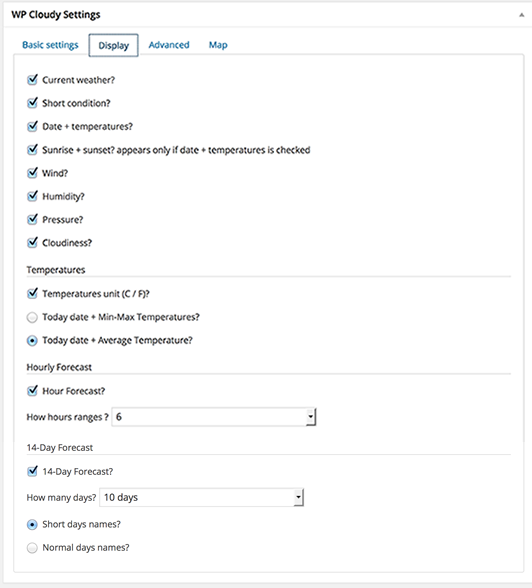
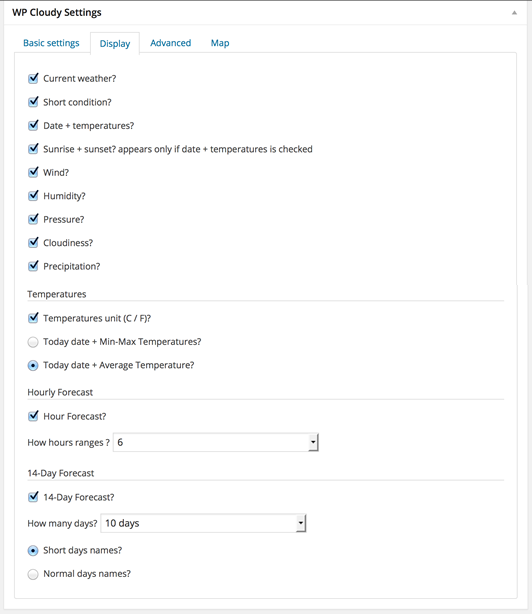
v2.8.2
git-svn-id: https://plugins.svn.wordpress.org/wp-cloudy/trunk@943668 b8457f37-d9ea-0310-8a92-e5e31aec5664

diff --git a/css/wpcloudy.min.css b/css/wpcloudy.min.css
@@ -1,1 +1,1 @@
-@font-face{font-family:Climacons-Font;src:url(climacons-webfont.eot);src:url(climacons-webfont.eot?#iefix) format('embedded-opentype'),url(climacons-webfont.svg#Climacons-Font) format('svg'),url(climacons-webfont.woff) format('woff'),url(climacons-webfont.ttf) format('truetype');font-weight:400;font-style:normal}#wpc-weather{font-family:helvetica neue,segoe ui,arial;font-size:14px;margin:10px 0;padding:10px 20px;width:100%;line-height:24px;display:inline-block;-webkit-box-sizing:border-box;-moz-box-sizing:border-box;box-sizing:border-box}#wpc-weather>div,#wpc-weather>div div,#wpc-weather>div div div{-webkit-box-sizing:border-box;-moz-box-sizing:border-box;box-sizing:border-box}#wpc-weather .wpc-highlight{display:block;font-weight:700}#wpc-weather .hours .temperature .wpc-highlight,#wpc-weather .temp_max .wpc-highlight,#wpc-weather .today .time_temperature_ave .wpc-highlight,#wpc-weather .today .time_temperature_max .wpc-highlight{display:inline-block}#wpc-weather.small .now .location_name{font-size:14px}#wpc-weather.medium .now .location_name{font-size:24px}#wpc-weather.large .now .location_name{font-size:34px}#wpc-weather.small .now .climacon:before{font-size:60px;line-height:80px;margin-bottom:20px}#wpc-weather.medium .now .climacon:before{font-size:100px;line-height:100px;margin-bottom:20px}#wpc-weather.large .now .climacon:before{font-size:200px}#wpc-weather .now .time_symbol{text-align:center}#wpc-weather.small .now .time_symbol svg{width:60px;height:60px;margin-bottom:20px}#wpc-weather.medium .now .time_symbol svg{width:100px;height:100px;margin-bottom:20px}#wpc-weather.large .now .time_symbol svg{width:200px;height:200px;margin-bottom:20px}#wpc-weather.small .now .time_temperature{font-size:14px}#wpc-weather.medium .now .time_temperature{font-size:24px}#wpc-weather.large .now .time_temperature{font-size:34px;margin:0}#wpc-weather .short_condition{display:inline-block;font-size:16px;margin:5px 0;text-align:center;width:100%}#wpc-weather .infos{display:inline-block;width:100%}#wpc-weather .infos .cloudiness,#wpc-weather .infos .humidity,#wpc-weather .infos .pressure,#wpc-weather .infos .wind{display:inline-block;float:left;margin:10px 0;text-align:center;width:25%}#wpc-weather .today .day{float:left;text-align:left;min-width:88px;width:20%}#wpc-weather .today .time_temperature_max{float:right;text-align:right;width:50px}#wpc-weather .today .time_temperature_min{float:right;margin-right:10px;text-align:right;width:50px}#wpc-weather .today .time_temperature_ave{float:right;text-align:right;width:50px}#wpc-weather .today .sun_hours{min-width:200px;width:30%;float:left;text-align:center}#wpc-weather .today .sun_hours .sunrise:before,#wpc-weather .today .sun_hours .sunset:before{font-size:30px;font-family:Climacons-Font;vertical-align:middle;padding-right:5%}#wpc-weather .today .sun_hours .sunrise:before{content:"\e02a"}#wpc-weather .today .sun_hours .sunset:before{content:"\e029"}#wpc-weather .forecast,#wpc-weather .today{display:inline-block;width:100%}#wpc-weather .hours{border-bottom-style:solid;border-top-style:solid;border-width:1px;display:inline-block;margin-bottom:10px;text-align:center;width:100%}#wpc-weather .hours .climacon{font-size:30px;font-family:Climacons-Font;speak:none;font-style:normal;font-weight:400;line-height:1;display:block;text-align:center;-webkit-font-smoothing:antialiased}#wpc-weather .hours .fifth,#wpc-weather .hours .first,#wpc-weather .hours .fourth,#wpc-weather .hours .second,#wpc-weather .hours .sixth,#wpc-weather .hours .third{display:inline-block;margin:0 6% 0 0;width:auto}#wpc-weather .hours .first{margin:0 6%}#wpc-weather .forecast .eighth,#wpc-weather .forecast .eleventh,#wpc-weather .forecast .fifth,#wpc-weather .forecast .first,#wpc-weather .forecast .fourth,#wpc-weather .forecast .ninth,#wpc-weather .forecast .second,#wpc-weather .forecast .seventh,#wpc-weather .forecast .sixth,#wpc-weather .forecast .tenth,#wpc-weather .forecast .third,#wpc-weather .forecast .thirteenth,#wpc-weather .forecast .twelfth{display:inline-block;width:100%}#wpc-weather .forecast .day{float:left;text-transform:capitalize;width:100px}#wpc-weather .forecast .symbol{float:left;width:100px}#wpc-weather .forecast .temp_min{float:right;margin-right:10px;text-align:right;width:50px}#wpc-weather .forecast .temp_max{float:right;text-align:right;width:50px}#wpc-weather .forecast .climacon{font-size:30px;font-family:Climacons-Font;speak:none;font-style:normal;font-weight:400;line-height:1;display:block;text-align:center;-webkit-font-smoothing:antialiased}#wpc-weather .location_name{font-size:44px;text-align:center}#wpc-weather .hours .symbol span,#wpc-weather .time_symbol span{position:absolute;text-indent:-9999px}#wpc-weather .time_temperature{display:block;font-size:44px;margin-top:-20px;text-align:center}#wpc-weather .now .climacon:before{font-family:Climacons-Font;speak:none;font-style:normal;font-weight:400;line-height:1;font-size:200px;display:block;text-align:center;-webkit-font-smoothing:antialiased}#wpc-weather #wpc-map-container{width:100%}#wpc-weather #wpc-map{height:300px;position:relative;width:100%;z-index:3}#wpc-weather #wpc-map svg{width:auto;height:auto}#wpc-weather .climacon.w800:before{content:"\e028"}#wpc-weather .climacon.w801:before{content:"\e001"}#wpc-weather .climacon.w802:before{content:"\e000"}#wpc-weather .climacon.w803:before,#wpc-weather .climacon.w804:before{content:"\e000";color:#B5B5B5}#wpc-weather .climacon.w500:before,#wpc-weather .climacon.w501:before{content:"\e004"}#wpc-weather .climacon.w502:before{content:"\e003"}#wpc-weather .climacon.w503:before{content:"\e007"}#wpc-weather .climacon.w504:before{content:"\e006"}#wpc-weather .climacon.w511:before{content:"\e00a"}#wpc-weather .climacon.w520:before{content:"\e009"}#wpc-weather .climacon.w521:before{content:"\e00d"}#wpc-weather .climacon.w300:before,#wpc-weather .climacon.w301:before,#wpc-weather .climacon.w302:before,#wpc-weather .climacon.w310:before,#wpc-weather .climacon.w311:before,#wpc-weather .climacon.w312:before,#wpc-weather .climacon.w321:before,#wpc-weather .climacon.w522:before{content:"\e00c"}#wpc-weather .climacon.w600:before{content:"\e016"}#wpc-weather .climacon.w601:before{content:"\e015"}#wpc-weather .climacon.w602:before{content:"\e019"}#wpc-weather .climacon.w611:before{content:"\e015"}#wpc-weather .climacon.w621:before{content:"\e018"}#wpc-weather .climacon.w701:before{content:"\e01f"}#wpc-weather .climacon.w711:before,#wpc-weather .climacon.w721:before{content:"\e01e"}#wpc-weather .climacon.w731:before{content:"\e01c"}#wpc-weather .climacon.w741:before{content:"\e01b"}#wpc-weather .climacon.w900:before{content:"\e037"}#wpc-weather .climacon.w901:before,#wpc-weather .climacon.w902:before{content:"\e022"}#wpc-weather .climacon.w903:before{content:"\e038"}#wpc-weather .climacon.w904:before{content:"\e03d"}#wpc-weather .climacon.w905:before{content:"\e021"}#wpc-weather .climacon.w906:before{content:"\e012"}#wpc-weather .climacon.w200:before{content:"\e025"}
+@font-face{font-family:Climacons-Font;src:url(climacons-webfont.eot);src:url(climacons-webfont.eot?#iefix) format('embedded-opentype'),url(climacons-webfont.svg#Climacons-Font) format('svg'),url(climacons-webfont.woff) format('woff'),url(climacons-webfont.ttf) format('truetype');font-weight:400;font-style:normal}#wpc-weather{font-family:helvetica neue,segoe ui,arial;font-size:14px;margin:10px 0;padding:10px 20px;width:100%;line-height:24px;display:inline-block;-webkit-box-sizing:border-box;-moz-box-sizing:border-box;box-sizing:border-box}#wpc-weather>div,#wpc-weather>div div,#wpc-weather>div div div{-webkit-box-sizing:border-box;-moz-box-sizing:border-box;box-sizing:border-box}#wpc-weather .wpc-highlight{display:block;font-weight:700}#wpc-weather .hours .temperature .wpc-highlight,#wpc-weather .temp_max .wpc-highlight,#wpc-weather .today .time_temperature_ave .wpc-highlight,#wpc-weather .today .time_temperature_max .wpc-highlight{display:inline-block}#wpc-weather.small .now .location_name{font-size:14px}#wpc-weather.medium .now .location_name{font-size:24px}#wpc-weather.large .now .location_name{font-size:34px}#wpc-weather.small .now .climacon:before{font-size:60px;line-height:80px;margin-bottom:20px}#wpc-weather.medium .now .climacon:before{font-size:100px;line-height:100px;margin-bottom:20px}#wpc-weather.large .now .climacon:before{font-size:200px}#wpc-weather .now .time_symbol{text-align:center}#wpc-weather.small .now .time_symbol svg{width:60px;height:60px;margin-bottom:20px}#wpc-weather.medium .now .time_symbol svg{width:100px;height:100px;margin-bottom:20px}#wpc-weather.large .now .time_symbol svg{width:200px;height:200px;margin-bottom:20px}#wpc-weather.small .now .time_temperature{font-size:14px}#wpc-weather.medium .now .time_temperature{font-size:24px}#wpc-weather.large .now .time_temperature{font-size:34px;margin:0}#wpc-weather .short_condition{display:inline-block;font-size:16px;margin:5px 0;text-align:center;width:100%}#wpc-weather .infos{display:inline-block;width:100%}#wpc-weather .infos .cloudiness,#wpc-weather .infos .humidity,#wpc-weather .infos .precipitation,#wpc-weather .infos .pressure,#wpc-weather .infos .wind{display:inline-block;float:left;margin:10px 0;text-align:center;width:20%}#wpc-weather .today .day{float:left;text-align:left;min-width:88px;width:20%}#wpc-weather .today .time_temperature_max{float:right;text-align:right;width:50px}#wpc-weather .today .time_temperature_min{float:right;margin-right:10px;text-align:right;width:50px}#wpc-weather .today .time_temperature_ave{float:right;text-align:right;width:50px}#wpc-weather .today .sun_hours{min-width:200px;width:30%;float:left;text-align:center}#wpc-weather .today .sun_hours .sunrise:before,#wpc-weather .today .sun_hours .sunset:before{font-size:30px;font-family:Climacons-Font;vertical-align:middle;padding-right:5%}#wpc-weather .today .sun_hours .sunrise:before{content:"\e02a"}#wpc-weather .today .sun_hours .sunset:before{content:"\e029"}#wpc-weather .forecast,#wpc-weather .today{display:inline-block;width:100%}#wpc-weather .hours{border-bottom-style:solid;border-top-style:solid;border-width:1px;display:inline-block;margin-bottom:10px;text-align:center;width:100%}#wpc-weather .hours .climacon{font-size:30px;font-family:Climacons-Font;speak:none;font-style:normal;font-weight:400;line-height:1;display:block;text-align:center;-webkit-font-smoothing:antialiased}#wpc-weather .hours .fifth,#wpc-weather .hours .first,#wpc-weather .hours .fourth,#wpc-weather .hours .second,#wpc-weather .hours .sixth,#wpc-weather .hours .third{display:inline-block;margin:0 6% 0 0;width:auto}#wpc-weather .hours .first{margin:0 6%}#wpc-weather .forecast .eighth,#wpc-weather .forecast .eleventh,#wpc-weather .forecast .fifth,#wpc-weather .forecast .first,#wpc-weather .forecast .fourth,#wpc-weather .forecast .ninth,#wpc-weather .forecast .second,#wpc-weather .forecast .seventh,#wpc-weather .forecast .sixth,#wpc-weather .forecast .tenth,#wpc-weather .forecast .third,#wpc-weather .forecast .thirteenth,#wpc-weather .forecast .twelfth{display:inline-block;width:100%}#wpc-weather .forecast .day{float:left;text-transform:capitalize;width:100px}#wpc-weather .forecast .symbol{float:left;width:100px}#wpc-weather .forecast .temp_min{float:right;margin-right:10px;text-align:right;width:50px}#wpc-weather .forecast .temp_max{float:right;text-align:right;width:50px}#wpc-weather .forecast .climacon{font-size:30px;font-family:Climacons-Font;speak:none;font-style:normal;font-weight:400;line-height:1;display:block;text-align:center;-webkit-font-smoothing:antialiased}#wpc-weather .location_name{font-size:44px;text-align:center}#wpc-weather .hours .symbol span,#wpc-weather .time_symbol span{position:absolute;text-indent:-9999px}#wpc-weather .time_temperature{display:block;font-size:44px;margin-top:-20px;text-align:center}#wpc-weather .now .climacon:before{font-family:Climacons-Font;speak:none;font-style:normal;font-weight:400;line-height:1;font-size:200px;display:block;text-align:center;-webkit-font-smoothing:antialiased}#wpc-weather #wpc-map-container{width:100%}#wpc-weather #wpc-map{height:300px;position:relative;width:100%;z-index:3}#wpc-weather #wpc-map svg{width:auto;height:auto}#wpc-weather .climacon.w800:before{content:"\e028"}#wpc-weather .climacon.w801:before{content:"\e001"}#wpc-weather .climacon.w802:before{content:"\e000"}#wpc-weather .climacon.w803:before,#wpc-weather .climacon.w804:before{content:"\e000";color:#B5B5B5}#wpc-weather .climacon.w500:before,#wpc-weather .climacon.w501:before{content:"\e004"}#wpc-weather .climacon.w502:before{content:"\e003"}#wpc-weather .climacon.w503:before{content:"\e007"}#wpc-weather .climacon.w504:before{content:"\e006"}#wpc-weather .climacon.w511:before{content:"\e00a"}#wpc-weather .climacon.w520:before{content:"\e009"}#wpc-weather .climacon.w521:before{content:"\e00d"}#wpc-weather .climacon.w300:before,#wpc-weather .climacon.w301:before,#wpc-weather .climacon.w302:before,#wpc-weather .climacon.w310:before,#wpc-weather .climacon.w311:before,#wpc-weather .climacon.w312:before,#wpc-weather .climacon.w321:before,#wpc-weather .climacon.w522:before{content:"\e00c"}#wpc-weather .climacon.w600:before{content:"\e016"}#wpc-weather .climacon.w601:before{content:"\e015"}#wpc-weather .climacon.w602:before{content:"\e019"}#wpc-weather .climacon.w611:before{content:"\e015"}#wpc-weather .climacon.w621:before{content:"\e018"}#wpc-weather .climacon.w701:before{content:"\e01f"}#wpc-weather .climacon.w711:before,#wpc-weather .climacon.w721:before{content:"\e01e"}#wpc-weather .climacon.w731:before{content:"\e01c"}#wpc-weather .climacon.w741:before{content:"\e01b"}#wpc-weather .climacon.w900:before{content:"\e037"}#wpc-weather .climacon.w901:before,#wpc-weather .climacon.w902:before{content:"\e022"}#wpc-weather .climacon.w903:before{content:"\e038"}#wpc-weather .climacon.w904:before{content:"\e03d"}#wpc-weather .climacon.w905:before{content:"\e021"}#wpc-weather .climacon.w906:before{content:"\e012"}#wpc-weather .climacon.w200:before{content:"\e025"}

diff --git a/css/wpcloudy.css b/css/wpcloudy.css
@@ -96,12 +96,12 @@
     display: inline-block;
     width: 100%;
 }
-#wpc-weather .infos .wind, #wpc-weather .infos .humidity, #wpc-weather .infos .pressure, #wpc-weather .infos .cloudiness {
+#wpc-weather .infos .wind, #wpc-weather .infos .humidity, #wpc-weather .infos .pressure, #wpc-weather .infos .cloudiness, #wpc-weather .infos .precipitation {
     display: inline-block;
     float: left;
     margin: 10px 0;
     text-align: center;
-    width: 25%;
+    width: 20%;
 }
 #wpc-weather .today .day {
 	float: left;

diff --git a/wpcloudy.php b/wpcloudy.php
@@ -3,7 +3,7 @@
 Plugin Name: WP Cloudy
 Plugin URI: http://wpcloudy.com/
 Description: WP Cloudy is a powerful weather plugin for WordPress, based on Open Weather Map API, using Custom Post Types and shortcodes, bundled with a ton of features.
-Version: 2.8.1.2
+Version: 2.8.2
 Author: Benjamin DENIS
 Author URI: http://wpcloudy.com/
 License: GPLv2
@@ -268,6 +268,7 @@ function wpcloudy_basic($post){
 	$wpcloudy_humidity 				= get_post_meta($post->ID,'_wpcloudy_humidity',true);
 	$wpcloudy_pressure				= get_post_meta($post->ID,'_wpcloudy_pressure',true);
 	$wpcloudy_cloudiness			= get_post_meta($post->ID,'_wpcloudy_cloudiness',true);
+	$wpcloudy_precipitation			= get_post_meta($post->ID,'_wpcloudy_precipitation',true);
 	$wpcloudy_hour_forecast			= get_post_meta($post->ID,'_wpcloudy_hour_forecast',true);
 	$wpcloudy_hour_forecast_nd		= get_post_meta($post->ID,'_wpcloudy_hour_forecast_nd',true);
 	$wpcloudy_temperature_min_max	= get_post_meta($post->ID,'_wpcloudy_temperature_min_max',true);
@@ -405,6 +406,12 @@ function wpcloudy_basic($post){
 					<label for="wpcloudy_cloudiness_meta">
 						<input type="checkbox" name="wpcloudy_cloudiness" id="wpcloudy_cloudiness_meta" value="yes" '. checked( $wpcloudy_cloudiness, 'yes', false ) .' />
 							'. __( 'Cloudiness?', 'wpcloudy' ) .'
+					</label>
+				</p>
+				<p>
+					<label for="wpcloudy_precipitation_meta">
+						<input type="checkbox" name="wpcloudy_precipitation" id="wpcloudy_precipitation_meta" value="yes" '. checked( $wpcloudy_precipitation, 'yes', false ) .' />
+							'. __( 'Precipitation?', 'wpcloudy' ) .'
 					</label>
 				</p>
 				<p class="temperatures">
@@ -684,6 +691,11 @@ function wpc_save_metabox($post_id){
 		update_post_meta( $post_id, '_wpcloudy_cloudiness', 'yes' );
 	} else {
 		update_post_meta( $post_id, '_wpcloudy_cloudiness', '' );
+	}
+	if( isset( $_POST[ 'wpcloudy_precipitation' ] ) ) {
+		update_post_meta( $post_id, '_wpcloudy_precipitation', 'yes' );
+	} else {
+		update_post_meta( $post_id, '_wpcloudy_precipitation', '' );
 	}
 	if( isset( $_POST[ 'wpcloudy_hour_forecast' ] ) ) {
 		update_post_meta( $post_id, '_wpcloudy_hour_forecast', 'yes' );
@@ -1338,6 +1350,34 @@ function get_bypass_display_cloudiness($attr,$content) {
 	}
 	else {
 		return get_display_cloudiness($attr,$content);
+	}
+}
+
+//Bypass Precipitation
+function get_admin_display_precipitation() {
+	$wpc_admin_display_precipitation_option = get_option("wpc_option_name");
+
+	if ( ! empty ( $wpc_admin_display_precipitation_option ) ) {
+		foreach ($wpc_admin_display_precipitation_option as $key => $wpc_admin_display_precipitation_value)
+			$options[$key] = $wpc_admin_display_precipitation_value;
+		if (isset($wpc_admin_display_precipitation_option['wpc_display_precipitation'])) {
+			return $wpc_admin_display_precipitation_option['wpc_display_precipitation'];
+		}
+	}
+};
+
+function get_display_precipitation($attr,$content) {
+		extract(shortcode_atts(array( 'id' => ''), $attr));
+		$wpc_display_precipitation_value = get_post_meta($id,'_wpcloudy_precipitation',true);
+		return $wpc_display_precipitation_value;
+};
+
+function get_bypass_display_precipitation($attr,$content) {
+	if (get_admin_display_precipitation()) {
+		return get_admin_display_precipitation(); 
+	}
+	else {
+		return get_display_precipitation($attr,$content);
 	}
 }
 
@@ -2264,6 +2304,7 @@ function wpcloudy_display_weather($attr,$content) {
 			$time_humidity 			= $myweather_current->humidity[0]['value'];
 			$time_pressure 			= $myweather_current->pressure[0]['value'];
 			$time_cloudiness		= $myweather_current->clouds[0]['value'];
+			$time_precipitation		= $myweather_current->precipitation[0]['value'];
 			$time_temperature		= (ceil($myweather_current->temperature[0]['value']));
 			$time_temperature_min 	= (ceil($myweather_sevendays->forecast[0]->time[0]->temperature[0]['min']));
 			$time_temperature_max 	= (ceil($myweather_sevendays->forecast[0]->time[0]->temperature[0]['max']));
@@ -2504,7 +2545,16 @@ function wpcloudy_display_weather($attr,$content) {
 			$display_cloudiness = '
 				<div class="cloudiness">'. __( 'Cloudiness', 'wpcloudy' ) .'<span class="wpc-highlight">'. $time_cloudiness .' %</span></div>
 			';
-			
+			if ($time_precipitation != '') {
+				$display_precipitation = '
+					<div class="precipitation">'. __( 'Precipitation', 'wpcloudy' ) .'<span class="wpc-highlight">'. $time_precipitation .' mm</span></div>
+				';
+			}
+			elseif ($time_precipitation == '') {
+				$display_precipitation = '
+					<div class="precipitation">'. __( 'Precipitation', 'wpcloudy' ) .'<span class="wpc-highlight">0 mm</span></div>
+				';
+			}
 			
 			//Hours loop
 			$display_hours_0 = '
@@ -2745,6 +2795,7 @@ function wpcloudy_display_weather($attr,$content) {
 			$wpcloudy_humidity				= 	get_bypass_display_humidity($attr,$content);
 			$wpcloudy_pressure				= 	get_bypass_display_pressure($attr,$content);
 			$wpcloudy_cloudiness			= 	get_bypass_display_cloudiness($attr,$content);
+			$wpcloudy_precipitation			= 	get_bypass_display_precipitation($attr,$content);
 			$wpcloudy_temperature_min_max	=	get_bypass_temp($attr,$content);
 			$wpcloudy_hour_forecast			=	get_bypass_display_hour_forecast($attr,$content);
 			$wpcloudy_hour_forecast_nd		=	get_bypass_display_hour_forecast_nd($attr,$content);
@@ -2794,25 +2845,29 @@ function wpcloudy_display_weather($attr,$content) {
 				$wpc_html_today_temp_end 		.= $display_today_ave_end;
 			}				
 			
-			if( $wpcloudy_wind || $wpcloudy_humidity || $wpcloudy_pressure || $wpcloudy_cloudiness ) {
+			if( $wpcloudy_wind || $wpcloudy_humidity || $wpcloudy_pressure || $wpcloudy_cloudiness || $wpcloudy_precipitation ) {
 				
 				$wpc_html_infos_start .= '<div class="infos">';
 
 				if( $wpcloudy_wind ) {
-					$wpc_html_infos_wind 		.= $display_wind;
+					$wpc_html_infos_wind 			.= $display_wind;
 				}
 				
 				if( $wpcloudy_humidity ) {
-					$wpc_html_infos_humidity 	.= $display_humidity;
+					$wpc_html_infos_humidity 		.= $display_humidity;
 				} 
 				
 				if( $wpcloudy_pressure ) {
-					$wpc_html_infos_pressure 	.= $display_pressure;
+					$wpc_html_infos_pressure 		.= $display_pressure;
 				} 
 				
 				if( $wpcloudy_cloudiness ) {
-					$wpc_html_infos_cloudiness 	.= $display_cloudiness;
-				} 
+					$wpc_html_infos_cloudiness 		.= $display_cloudiness;
+				}
+				
+				if( $wpcloudy_precipitation ) {
+					$wpc_html_infos_precipitation 	.= $display_precipitation;
+				}  
 				
 				$wpc_html_infos_end .= '</div>';
 			

diff --git a/wpcloudy-admin.php b/wpcloudy-admin.php
@@ -350,6 +350,14 @@ class wpc_options
             'wpc-settings-admin-display', // Page
             'wpc_setting_section_display' // Section           
         );
+        
+        add_settings_field(
+            'wpc_display_precipitation', // ID
+            __("Precipitation?","wpcloudy"), // Title
+            array( $this, 'wpc_display_precipitation_callback' ), // Callback
+            'wpc-settings-admin-display', // Page
+            'wpc_setting_section_display' // Section           
+        );
 		
 		add_settings_field(
             'wpc_display_hour_forecast', // ID
@@ -1035,6 +1043,22 @@ class wpc_options
 		
 		if (isset($this->options['wpc_display_cloudiness'])) { 
 			esc_attr( $this->options['wpc_display_cloudiness']);
+		}
+    }
+    
+    public function wpc_display_precipitation_callback()
+    {
+		$options = get_option( 'wpc_option_name' );  
+		  
+		$check = isset($options['wpc_display_precipitation']);
+		
+        echo '<input id="wpc_display_precipitation" name="wpc_option_name[wpc_display_precipitation]" type="checkbox"';
+		if ('1' == $check) echo 'checked="yes"'; 
+		echo ' value="1"/>';
+		echo '<label for="wpc_display_precipitation">'. __( 'Display precipitation on all weather?', 'wpcloudy' ) .'</label>';
+		
+		if (isset($this->options['wpc_display_precipitation'])) { 
+			esc_attr( $this->options['wpc_display_precipitation']);
 		}
     }
 	

diff --git a/template/content-wpcloudy-theme1.php b/template/content-wpcloudy-theme1.php
@@ -8,8 +8,8 @@
 
 
 wp_enqueue_script('jquery');
-wp_enqueue_script( 'flexslider-js');	
-wp_enqueue_style( 'flexslider-css');
+wp_enqueue_script('wpc-flexslider-js');	
+wp_enqueue_style('wpc-flexslider-css');
 
 ?>
 
@@ -40,7 +40,7 @@ wp_enqueue_style( 'flexslider-css');
 	<?php echo $wpc_html_now_end; ?>
 	
 	<div class="wpc-toggle-infos">
-		<!-- Current infos: wind, humidity, pressure, cloudiness -->
+		<!-- Current infos: wind, humidity, pressure, cloudiness, precipitation -->
 		<div class="infos">
 			<div class="wpc-flexslider">
 				<ul class="wpc-slides">
@@ -61,8 +61,9 @@ wp_enqueue_style( 'flexslider-css');
 						<?php echo $wpc_html_infos_cloudiness; ?>
 					</li>
 					<?php } ?>
-					<?php if ( $wpc_html_today_sun ) { ?>
+					<?php if ( $wpc_html_today_sun || $wpc_html_infos_precipitation ) { ?>
 					<li>
+						<?php echo $wpc_html_infos_precipitation; ?>
 						<?php echo $wpc_html_today_sun; ?>	
 					</li>
 					<?php } ?>

diff --git a/template/content-wpcloudy.php b/template/content-wpcloudy.php
@@ -28,12 +28,13 @@
 		<?php echo $wpc_html_today_sun; ?>
 	<?php echo $wpc_html_today_temp_end; ?>
 	
-	<!-- Current infos: wind, humidity, pressure, cloudiness -->
+	<!-- Current infos: wind, humidity, pressure, cloudiness, precipitation -->
 	<?php echo $wpc_html_infos_start; ?>
 		<?php echo $wpc_html_infos_wind; ?>
 		<?php echo $wpc_html_infos_humidity; ?>
 		<?php echo $wpc_html_infos_pressure; ?>
 		<?php echo $wpc_html_infos_cloudiness; ?>
+		<?php echo $wpc_html_infos_precipitation; ?>
 	<?php echo $wpc_html_infos_end; ?>
 
 
